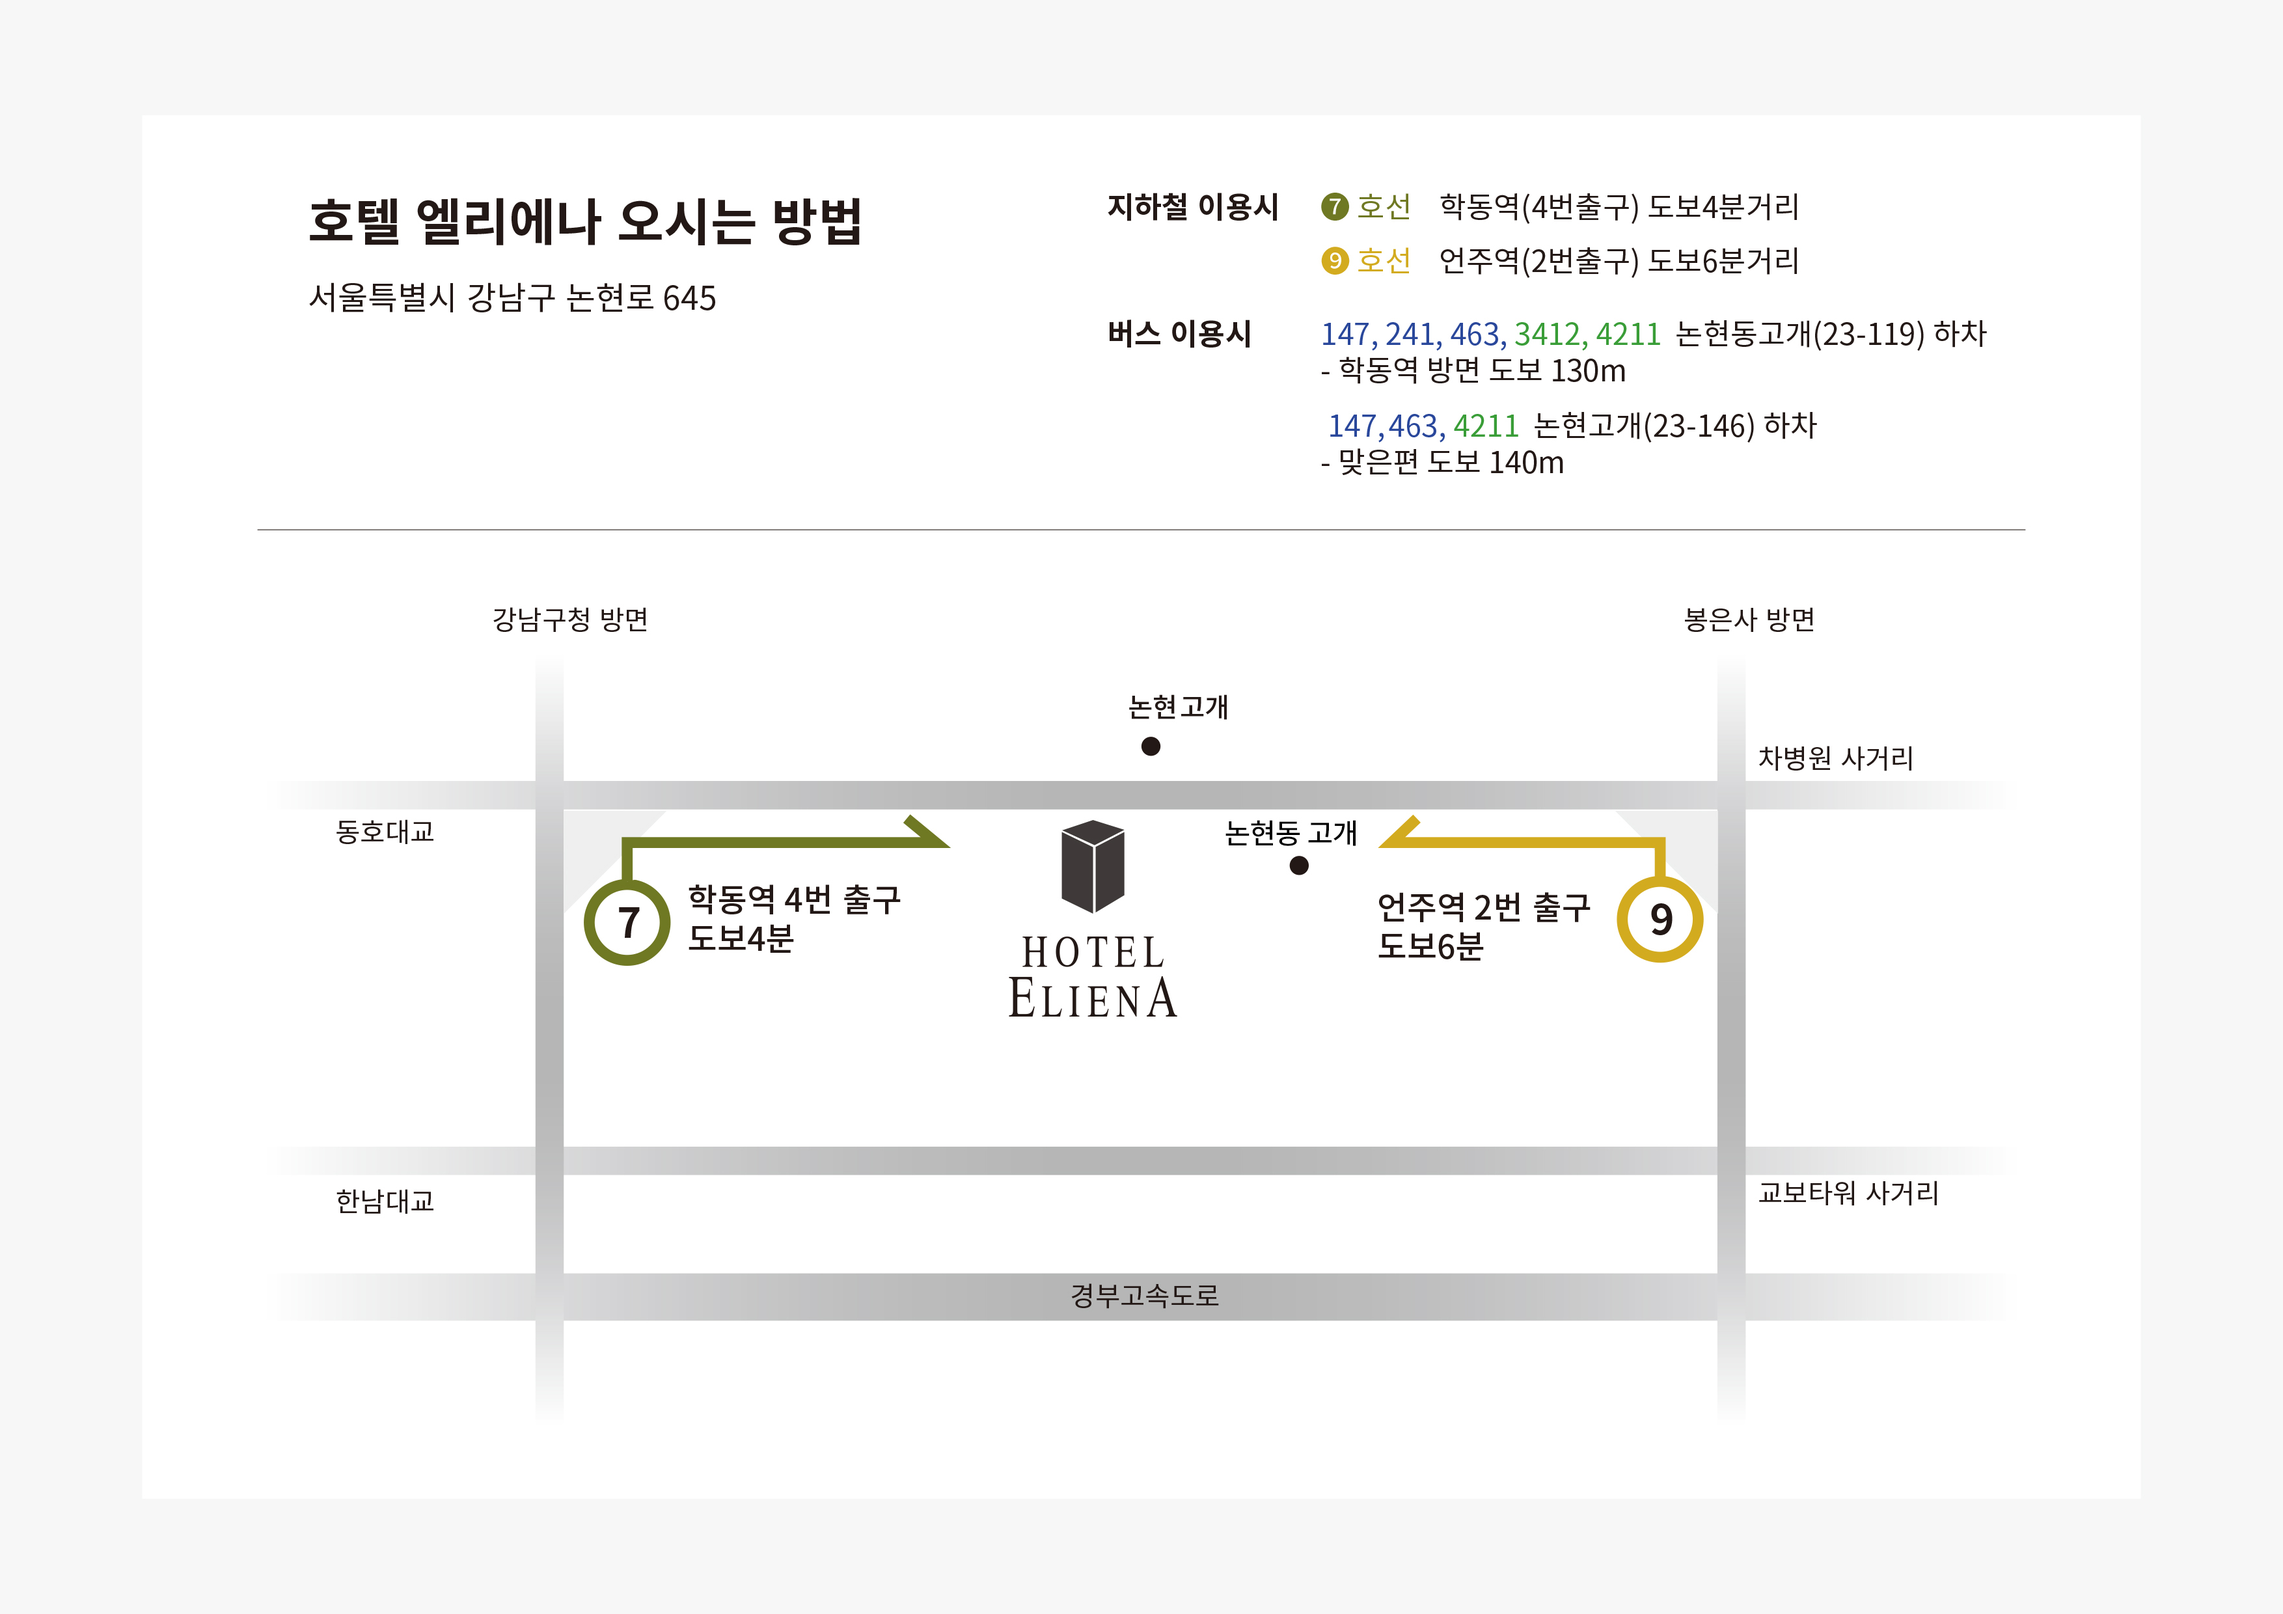
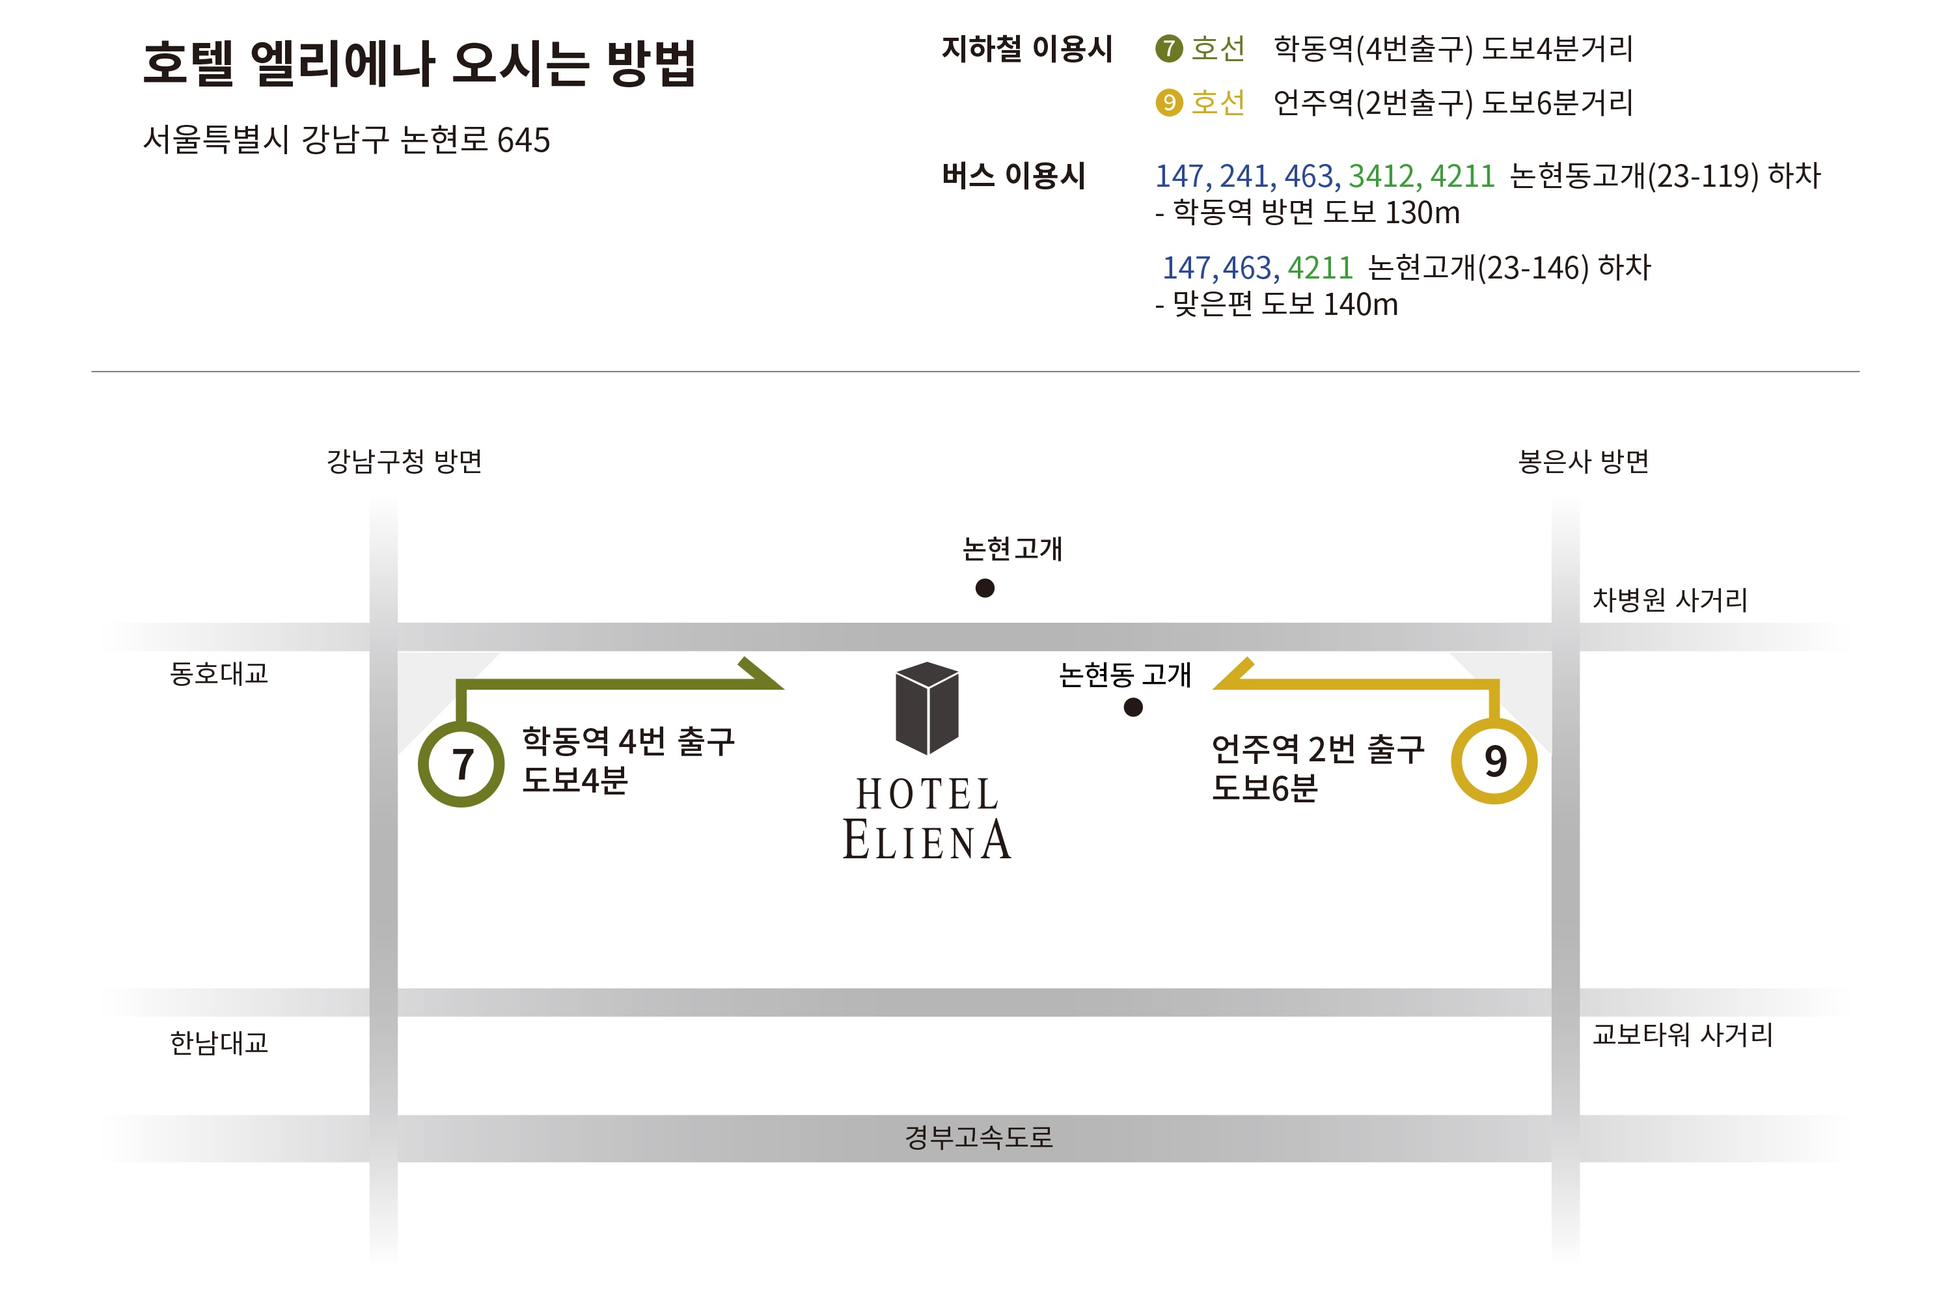
맵 확대, 갤러리 왼쪽버튼 수정

diff --git a/src/components/location.jsx b/src/components/location.jsx
@@ -1,4 +1,4 @@
-import React, { useEffect } from "react";
+import React, { useEffect, useState } from "react";
 import { Divider } from "antd";
 import styled from "styled-components";
 import Flower from "../assets/flower2.png";
@@ -46,13 +46,76 @@ const MapImg = styled.img`
   max-width: 500px;
   margin: 20px auto 0;
   display: block;
+  cursor: pointer;
+  transition: transform 0.3s ease;
+
+  &:hover {
+    transform: scale(1.02);
+  }
 
   @media (max-width: 768px) {
     max-width: 100%;
   }
 `;
 
+const Modal = styled.div`
+  position: fixed;
+  top: 0;
+  left: 0;
+  right: 0;
+  bottom: 0;
+  background: rgba(0, 0, 0, 0.9);
+  display: flex;
+  align-items: center;
+  justify-content: center;
+  z-index: 9999;
+  padding: 20px;
+`;
+
+const ModalContent = styled.div`
+  position: relative;
+  max-width: 90vw;
+  max-height: 90vh;
+  display: flex;
+  align-items: center;
+  justify-content: center;
+`;
+
+const ModalImage = styled.img`
+  max-width: 100%;
+  max-height: 90vh;
+  width: auto;
+  height: auto;
+  object-fit: contain;
+`;
+
+const CloseButton = styled.button`
+  position: absolute;
+  top: -40px;
+  right: 0;
+  background: rgba(255, 255, 255, 0.9);
+  border: none;
+  border-radius: 50%;
+  width: 40px;
+  height: 40px;
+  font-size: 24px;
+  cursor: pointer;
+  display: flex;
+  align-items: center;
+  justify-content: center;
+  
+  &:hover {
+    background: white;
+  }
+
+  @media (max-width: 768px) {
+    top: 10px;
+    right: 10px;
+  }
+`;
+
 const Location = () => {
+  const [isModalOpen, setIsModalOpen] = useState(false);
   // 카카오 맵 불러오기
 
   // <!-- 3. 실행 스크립트 -->
@@ -104,6 +167,27 @@ const Location = () => {
     InstallScript();
   }, [InstallScript]);
 
+  const handleImageClick = () => {
+    setIsModalOpen(true);
+  };
+
+  const handleClose = (e) => {
+    if (e.target === e.currentTarget) {
+      setIsModalOpen(false);
+    }
+  };
+
+  useEffect(() => {
+    const handleKeyDown = (e) => {
+      if (e.key === 'Escape' && isModalOpen) {
+        setIsModalOpen(false);
+      }
+    };
+
+    window.addEventListener('keydown', handleKeyDown);
+    return () => window.removeEventListener('keydown', handleKeyDown);
+  }, [isModalOpen]);
+
   return (
     <Wrapper>
       <Divider plain style={{ marginTop: 0, marginBottom: 32 }}>
@@ -114,7 +198,15 @@ const Location = () => {
         id="daumRoughmapContainer1765440937193"
         className="root_daum_roughmap root_daum_roughmap_landing"
       ></Map>
-      <MapImg src={MapImage} alt="Location Map" />
+      <MapImg src={MapImage} alt="Location Map" onClick={handleImageClick} />
+      {isModalOpen && (
+        <Modal onClick={handleClose}>
+          <ModalContent>
+            <CloseButton onClick={() => setIsModalOpen(false)}>×</CloseButton>
+            <ModalImage src={MapImage} alt="Location Map" />
+          </ModalContent>
+        </Modal>
+      )}
       <Content>
         서울 강남구 논현로 645
         <br />

diff --git a/src/components/congratulatoryMoney.jsx b/src/components/congratulatoryMoney.jsx
@@ -87,17 +87,20 @@ const CongratulatoryMoney = () => {
         plain
         style={{ marginTop: 0, marginBottom: 32 }}
       >
-        <Title>축하의 마음을 전하세요</Title>
+        <Title>마음 전하실 곳</Title>
       </Divider>
       <Image src={Flower} />
       <Content data-aos="fade-up">
-        축하의 마음을 담아 축의금을 전달해 보세요.
+        멀리서도 축하의 마음을 전하고 싶으신 분들을 위해 계좌번호를 안내드립니다. 
+        <br />
+        <br />
+        소중한 축하를 보내주셔서 감사드립니다.
       </Content>
 
       <ButtonWrap>
         <ContactButton data-aos="fade-up" onClick={() => setGroomVisible(true)}>
           <CheckCircleTwoTone
-            style={{ fontSize: 64, marginBottom: 16 }}
+            style={{ fontSize: 48, marginBottom: 16 }}
             twoToneColor="#829fe0"
           />
           <br />
@@ -105,7 +108,7 @@ const CongratulatoryMoney = () => {
         </ContactButton>
         <ContactButton data-aos="fade-up" onClick={() => setBrideVisible(true)}>
           <CheckCircleTwoTone
-            style={{ fontSize: 64, marginBottom: 16 }}
+            style={{ fontSize: 48, marginBottom: 16 }}
             twoToneColor="#fe7daf"
           />
           <br />

diff --git a/src/components/gallery.jsx b/src/components/gallery.jsx
@@ -122,13 +122,17 @@ const NavigationButton = styled.button`
   align-items: center;
   justify-content: center;
   ${props => props.$position === 'left' ? 'left: -60px;' : 'right: -60px;'}
+  z-index: 10000;
   
   &:hover {
     background: white;
   }
   
   @media (max-width: 768px) {
-    ${props => props.$position === 'left' ? 'left: 10px;' : 'right: 10px;'}
+    width: 40px;
+    height: 40px;
+    font-size: 20px;
+    ${props => props.$position === 'left' ? 'left: 5px;' : 'right: 5px;'}
   }
 `;
 

diff --git a/src/components/quote.jsx b/src/components/quote.jsx
@@ -52,7 +52,7 @@ const Quote = () => {
         And I wanna spend some time with you
         <br />
         <br />
-        - From 'Just the two of us' -
+        - From 'Just the Two of Us' -
         <br />
         <br />
       </Content>

diff --git a/README.md b/README.md
@@ -1,34 +1,24 @@
 # 모바일 청첩장 React.js 템플릿
 
 결혼식 초대를 위한 청첩장 템플릿입니다.  
-이 저장소가 마음에 들거나 사용하게 되신다면, Star와 Fork 부탁드리겠습니다😉
 
-## 👰🏻♀ 미리 보기
+> **Original Repo**: [https://github.com/S-jooyoung/WEDDING_INVITATION](https://github.com/S-jooyoung/WEDDING_INVITATION)  
+> 이 프로젝트는 위 repo를 기반으로 수정되었습니다.
 
-https://wedding-templete.netlify.app/
+## 주요 변경사항
+
+- 갤러리 모바일 레이아웃을 3열 그리드로 변경
+- 갤러리 네비게이션 버튼 모바일 화면에서 표시 개선
+- 지도 이미지 클릭 시 확대 보기 모달 추가
+- 마음 전하실 곳 아이콘 크기 조정
 
 ## 📚 내용 및 기능
 
 - 결혼식 날짜, 위치, 인사말 출력
 - 사진첩
 - 축의금을 보내실 곳 (계좌번호 클립보드 복사 기능 지원)
-- 카카오톡 공유 기능 및 링크 공유 기능
+<!-- - 카카오톡 공유 기능 및 링크 공유 기능 -->
 
-## 🚘 시작하기
-
-1. `$ cd WEDDING_INVITATION` - 해당 프로젝트 폴더로 이동
-2. `$ npm install` - 디펜던시 설치
-3. `$ npm start` - 로컬로 실행
-
-## 🔧 Netlify로 만들기
-
-Netlify로 만드신다면 아래 글을 참고하세요 🕵🏻♂
-
-[Gatsby 테마로 모바일 결혼 청첩장 만들기](https://joy.pe.kr/gatsby-wedding-deploy/)
-
-## ❌ 오류 발생 시
-
-`rm -rf package-lock.json` 과 `rm -rf node_modules` 후 다시 `npm install` 수행
 
 ## 🛠 커스터마이징
 
